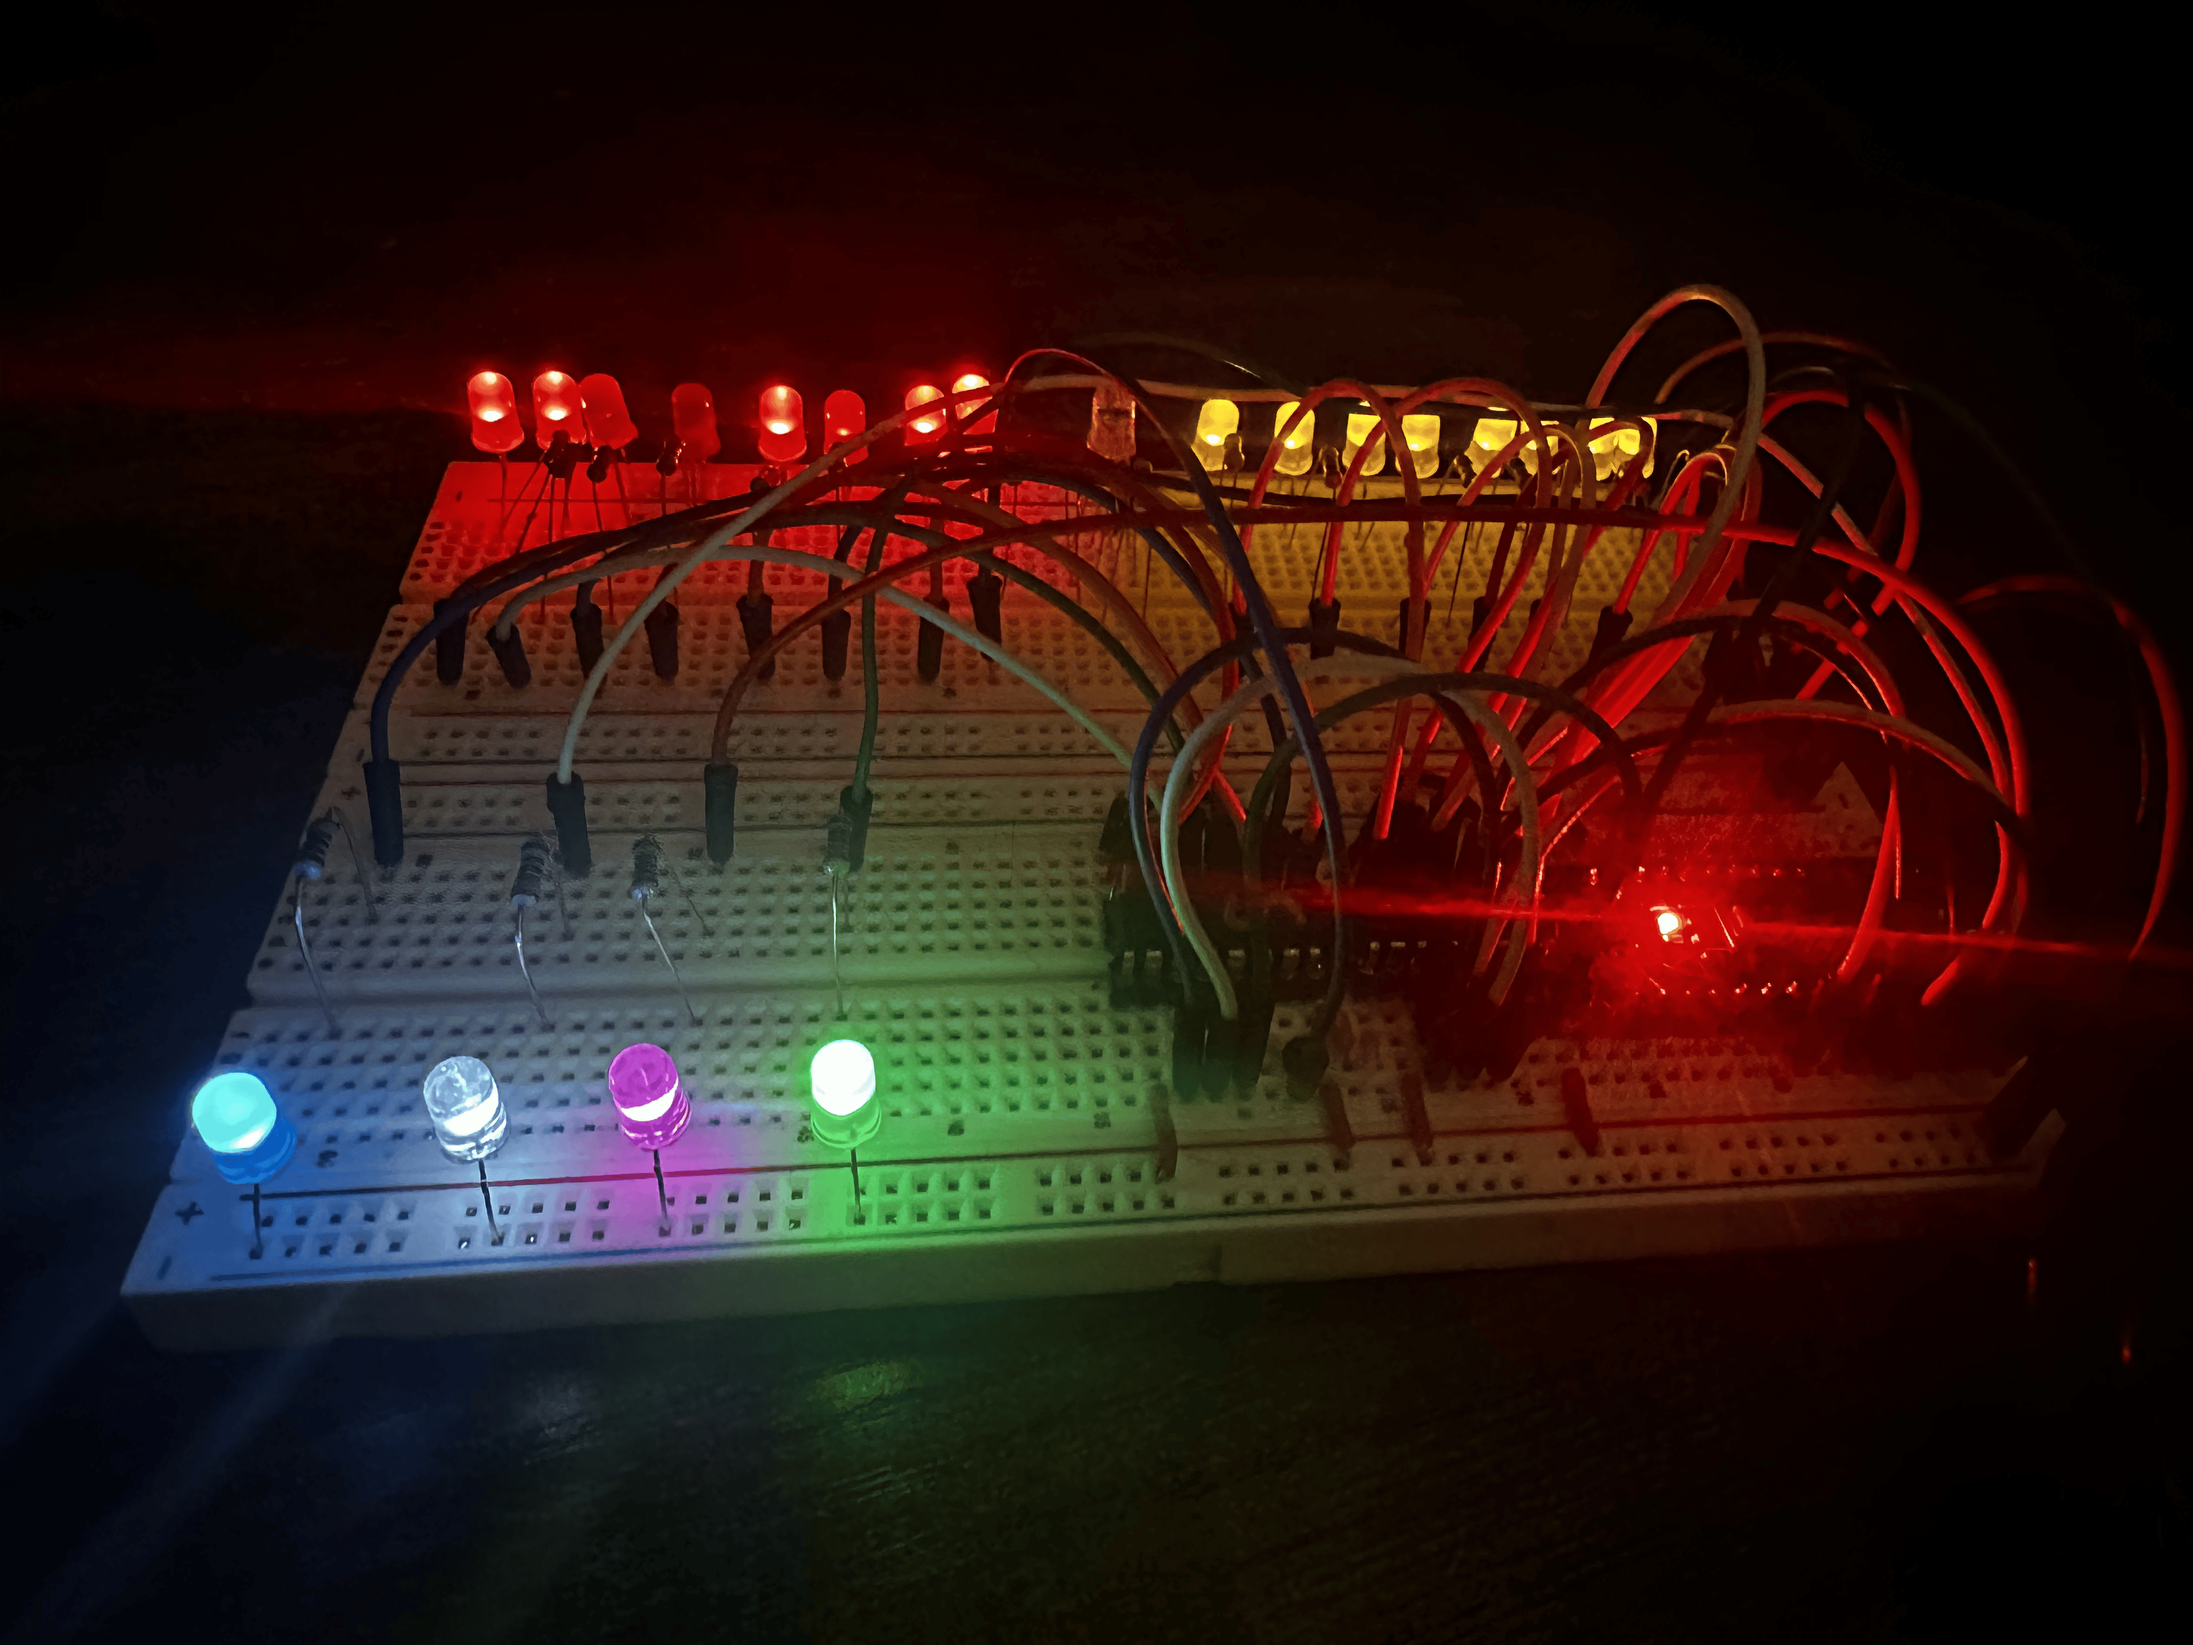
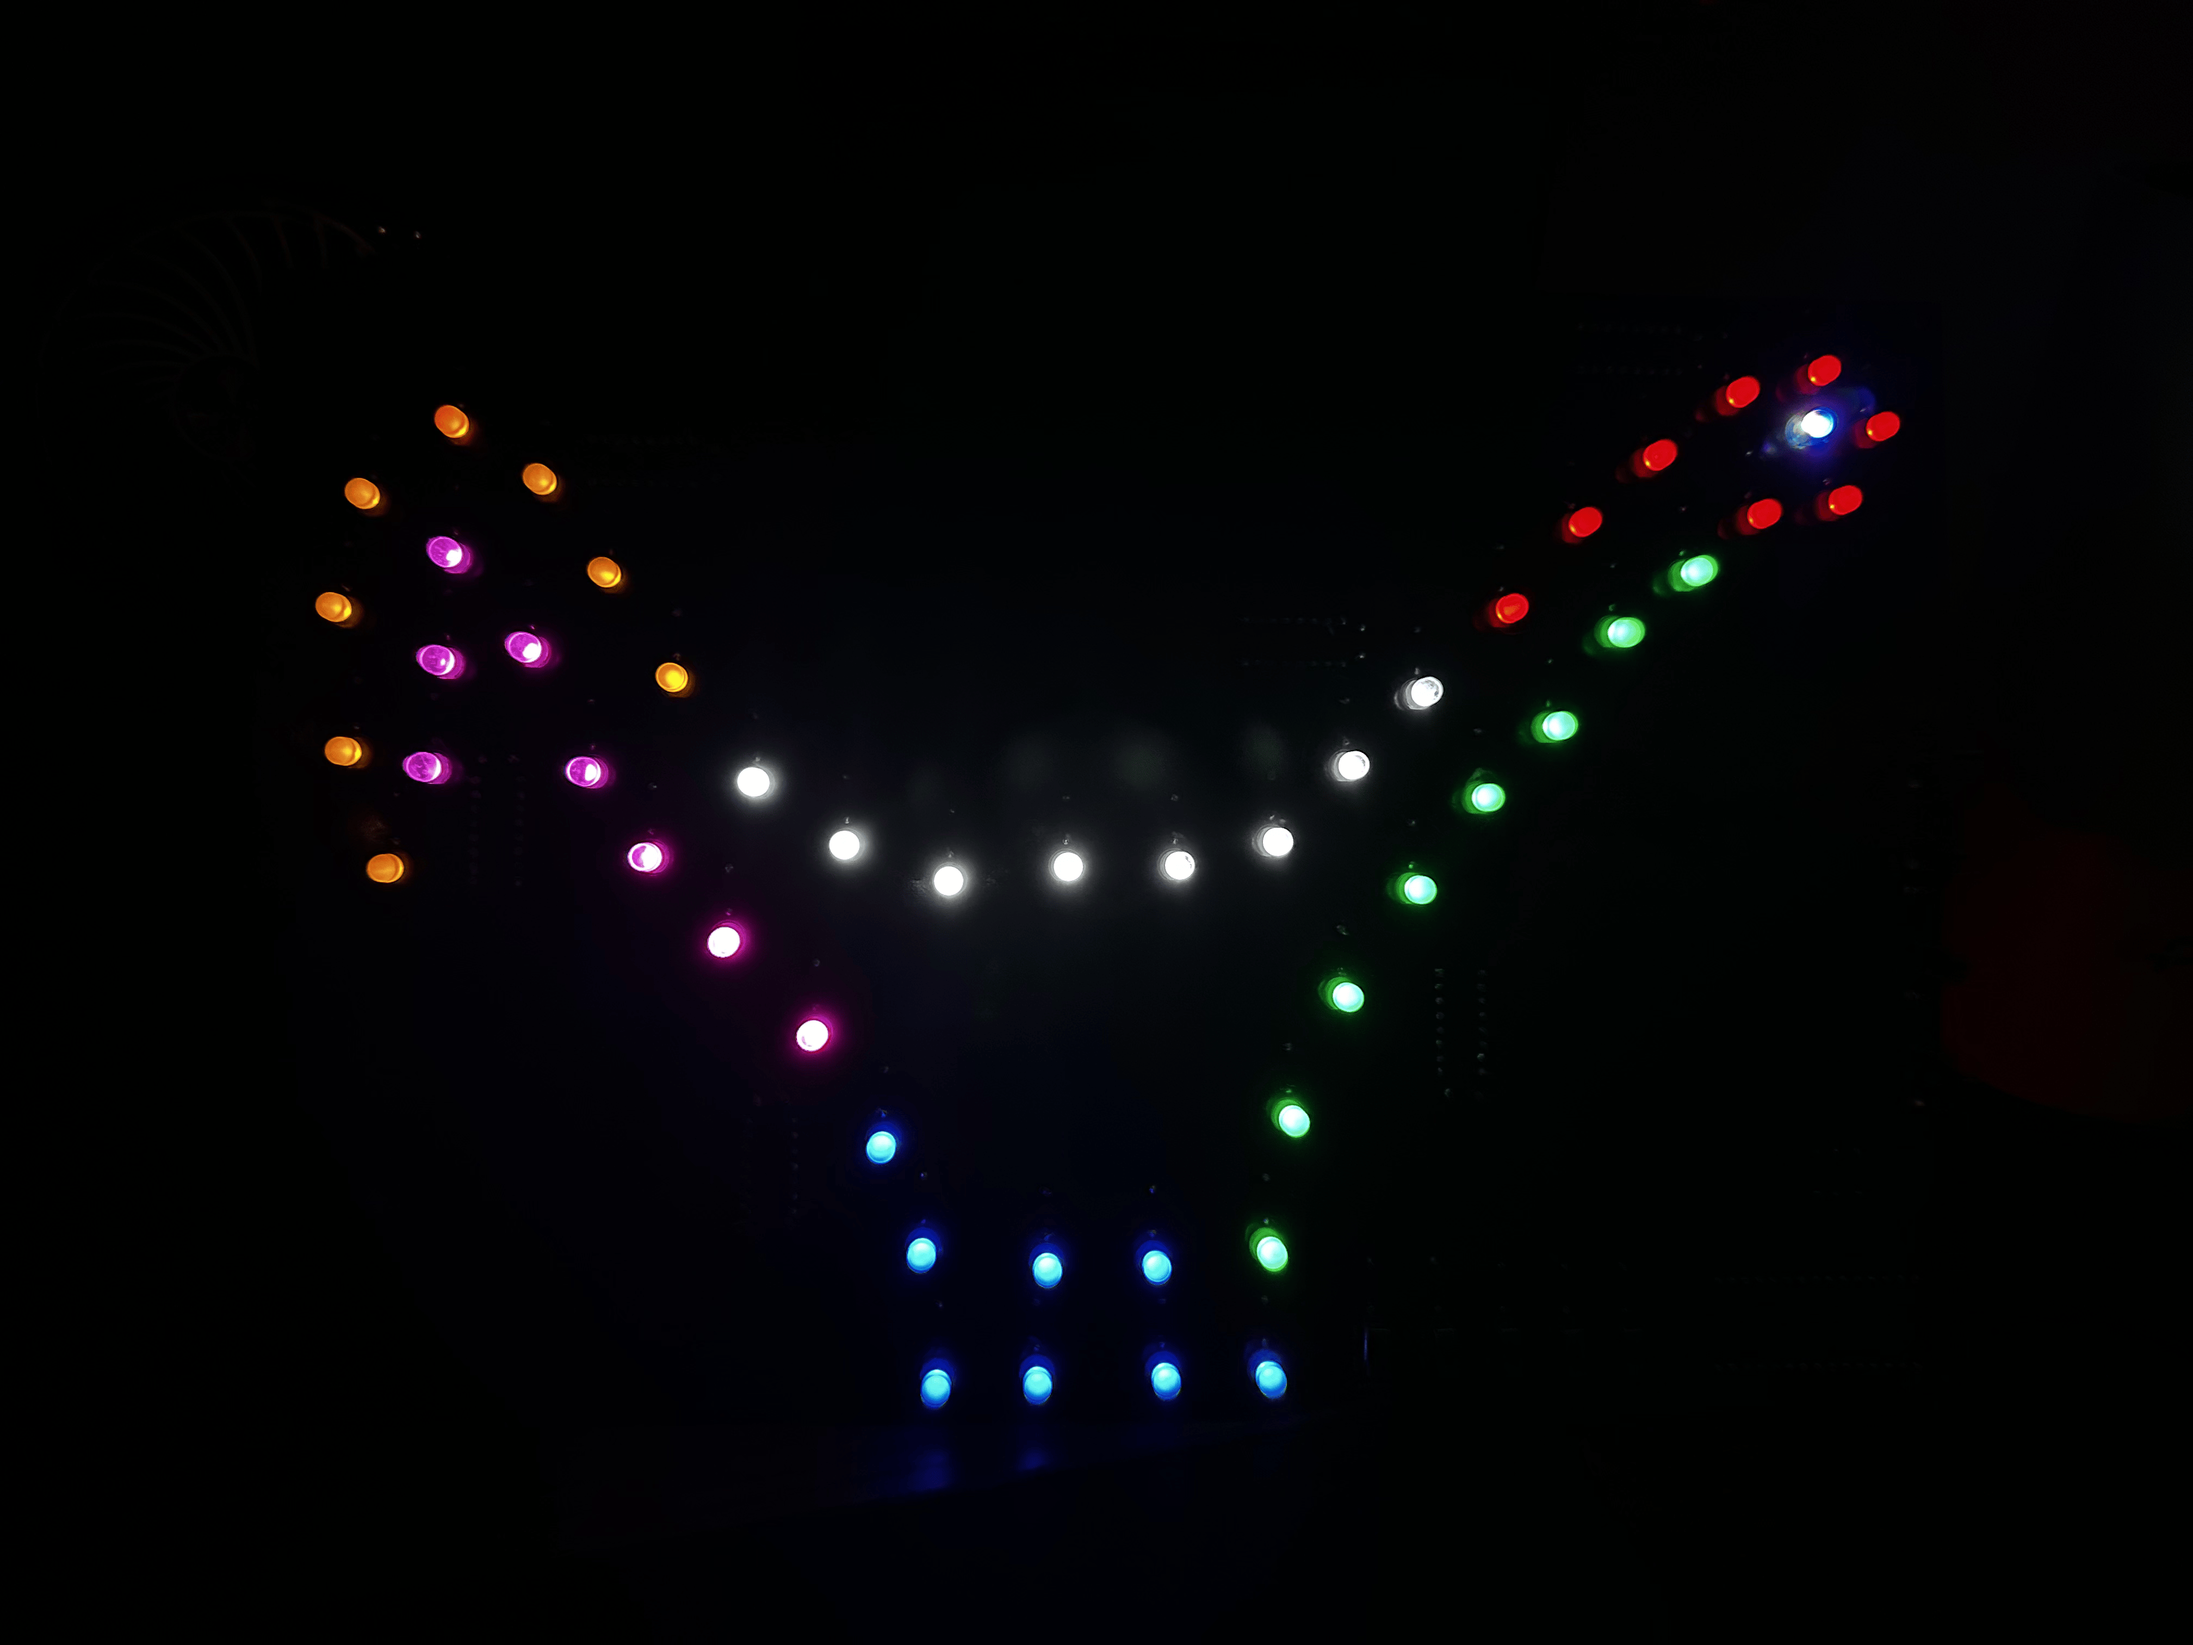
readme

diff --git a/README.md b/README.md
@@ -1,9 +1,13 @@
-# ARDUINO BLINK PROGRAM IN c WITHOUT ARDUINO LIBRARY
-- use as starter template for arduino code without arduino framework
-- build & upload to connected arduino to compile & upload project to chip
-    - run `ls -a /dev/tty.*` to get name of usb port to upload to. must set this as $USBPORT in scripts/bld.sh to upload
-- setup for atmega328p chip
-- from root run `./scripts/bld.sh` to compile & upload
+# brontosaurus led project in c
+## hardware
+- the Makefile uploads to an atmega328p chip on an Arduino nano
+- the brontosaurus circuit has 6 74HC595 shift registers daisy-chained together driving 48 5mm LEDs
+## software
+- the bronto code is written in plain c without the arduino framework to keep it as lightweight as possible
+- avrdude & avr-gcc are required to compile & upload to the arduino
 
-## breadboard example
+## fully built example
 ![image](./z_docs/img/ref.png)
+
+## schematic
+![image](https://github.com/jdetok/bronto-arduino/blob/main/bronto_schematic.jpg?raw=true)

diff --git a/z_docs/pinout.md b/z_docs/pinout.md
@@ -1,0 +1,40 @@
+# arduino pinout
+# ui pins
+## switches
+- power switch
+    - d5
+- sequence/solid mode switch
+    - d3
+- "intensity" (intn) switch
+    - d2
+- rgb on switch
+    - a0
+- current unused switch
+    - a5
+## potentiometers
+- brightness pot
+    - a1
+- speed pot
+    - a2
+- intensity pot
+    - a3
+- rgb brightness pot
+    - a4
+# 74HC595 shift register pins
+- serial pin
+    - d4
+- output enable (oe) pin
+    - d6
+    * pwm, controls led brightness
+- clock pin
+    - d7
+- latch pin
+    - d8
+# rgb pins
+### all three pwm
+- red
+    - d9
+- green
+    - d10
+- blue
+    - d11
